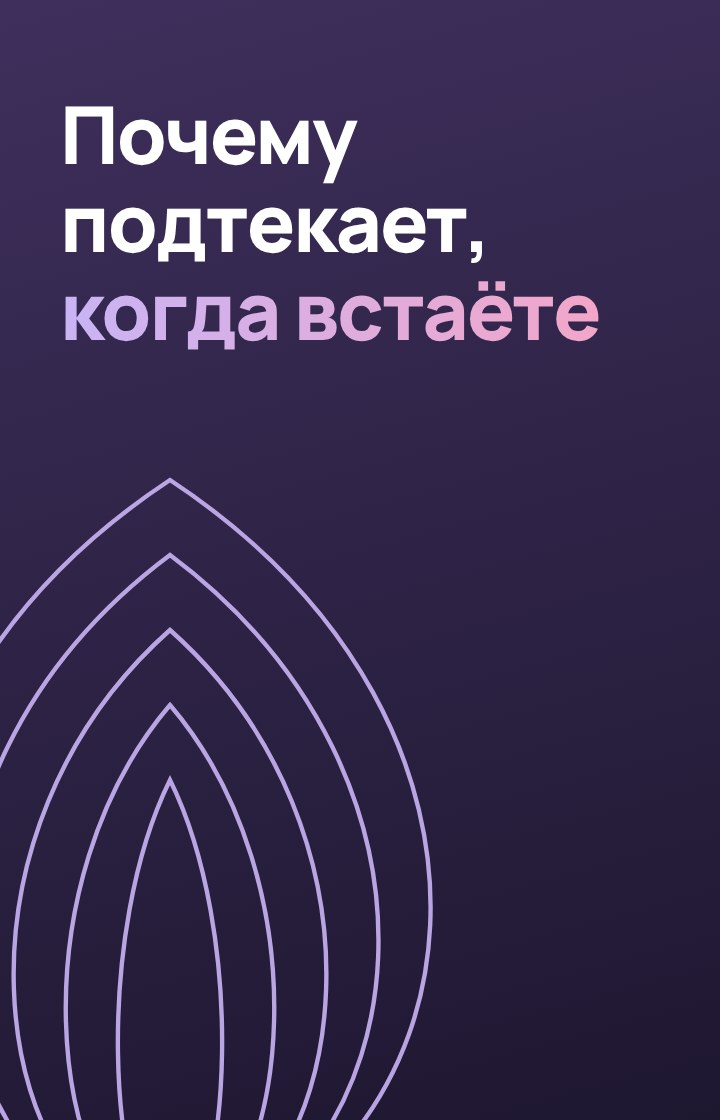
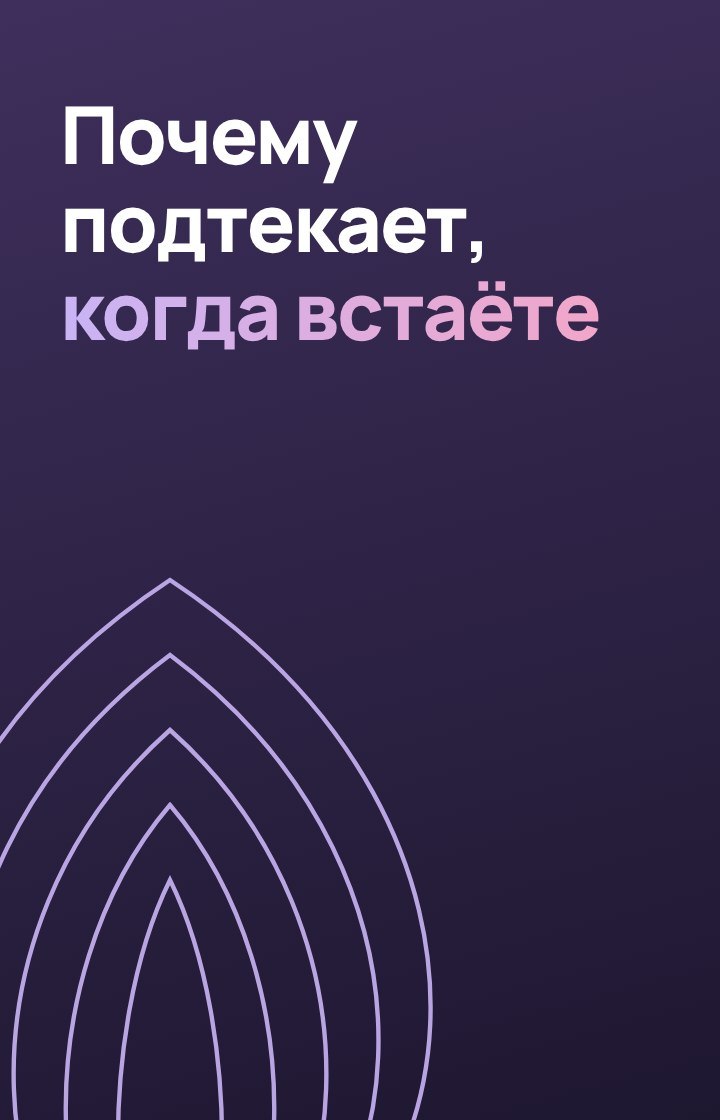
Обложки: play по центру, текст и лепестки сдвинуты под кнопку
Claude-Session: https://claude.ai/code/session_01BQF8mp1bWWr6JzRP7JYi46

diff --git a/index.html b/index.html
@@ -486,8 +486,7 @@ nav{align-items:center}nav a{display:inline-flex;align-items:center;justify-cont
 
 /* обложки: кнопка play не перекрывает лепесток */
 .vid .play{padding:18px}
-.vids .vid:nth-child(1) .play,.vids .vid:nth-child(2) .play{align-items:flex-end;justify-content:flex-end}
-.vids .vid:nth-child(3) .play{align-items:flex-start;justify-content:flex-end}
+.vids .vid .play{align-items:center;justify-content:center}
 .vid .play span{width:56px;height:56px;box-shadow:0 8px 20px -8px #2b144080}
 .vids .vid:nth-child(2) .play span{background:linear-gradient(125deg,#8F6BDA,#E59CC6)}
 .vids .vid:nth-child(2) .play span::after{border-left-color:#fff}
